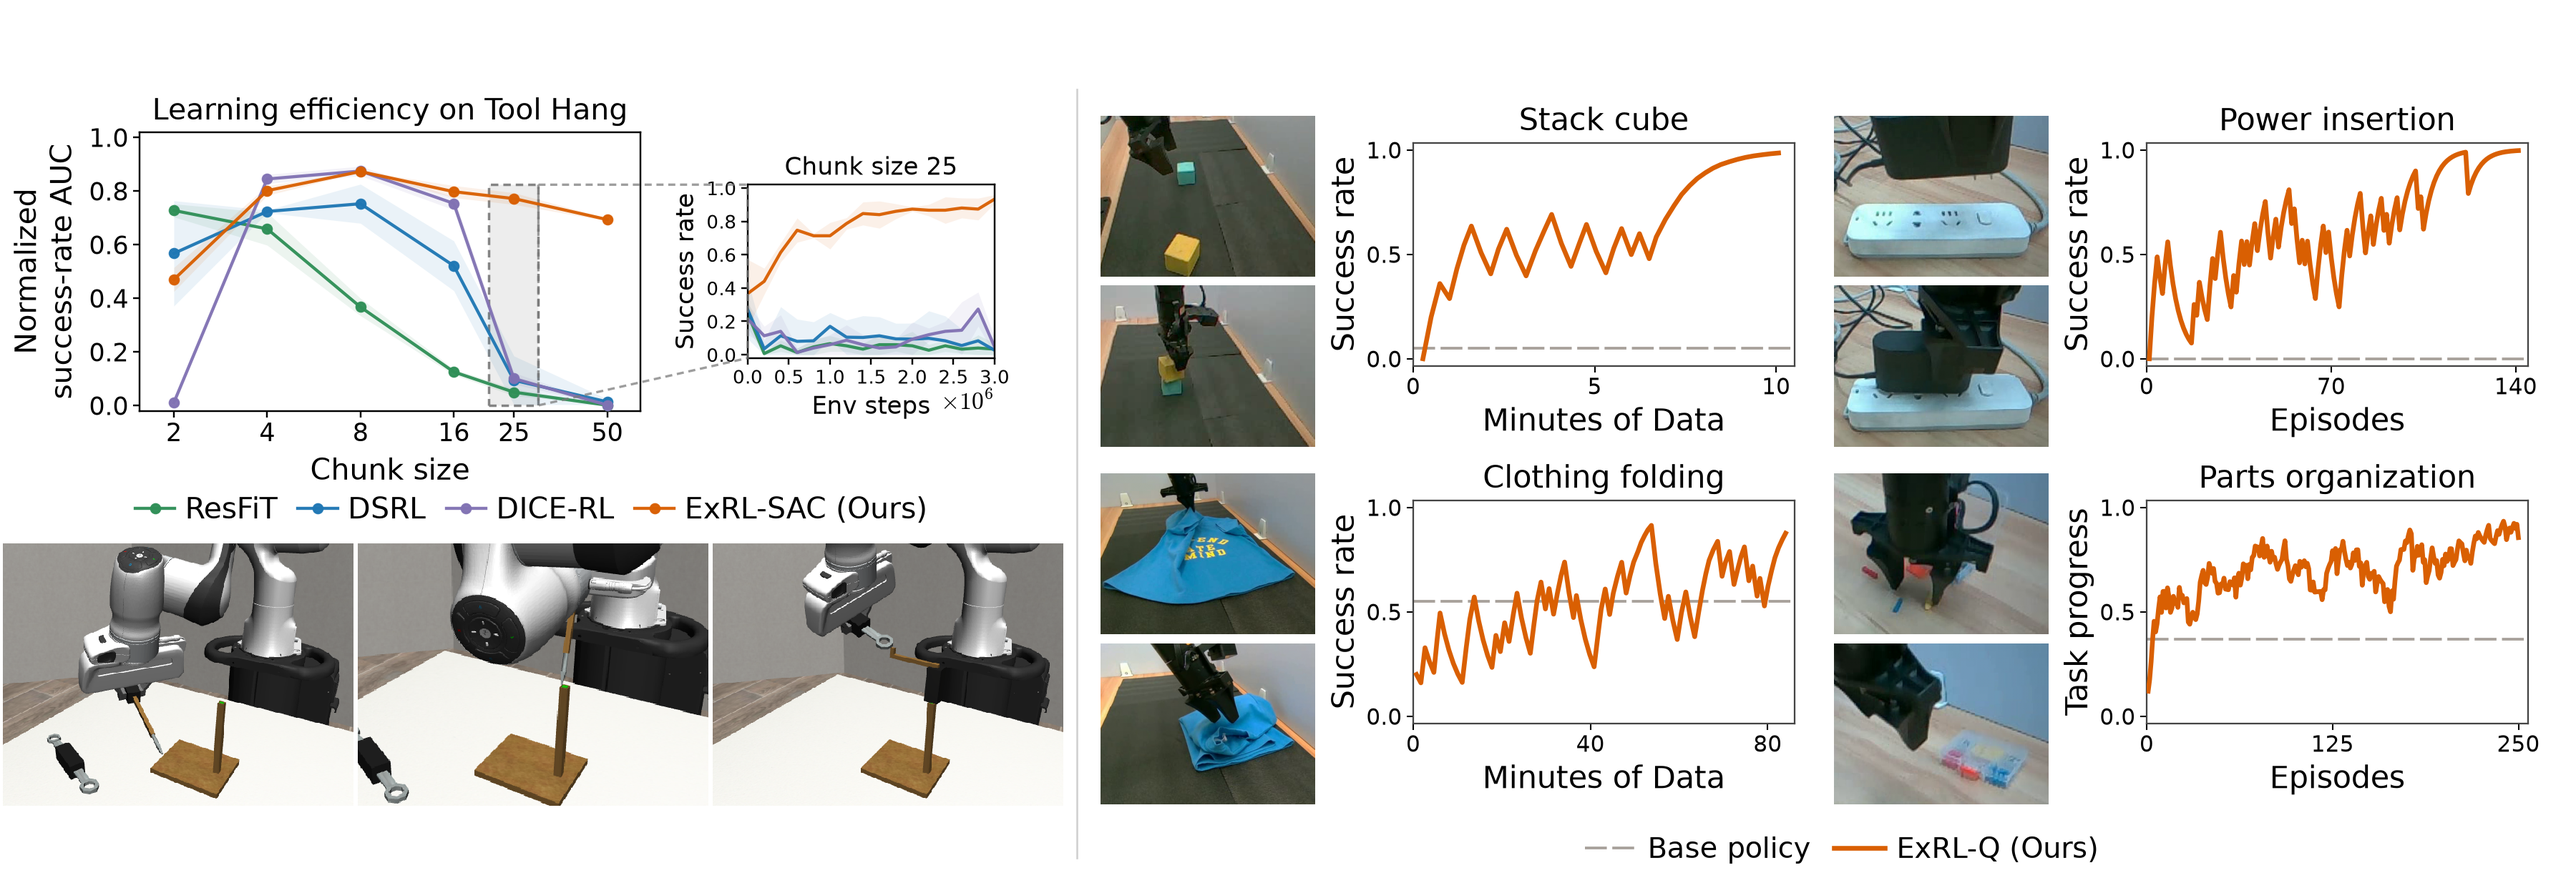
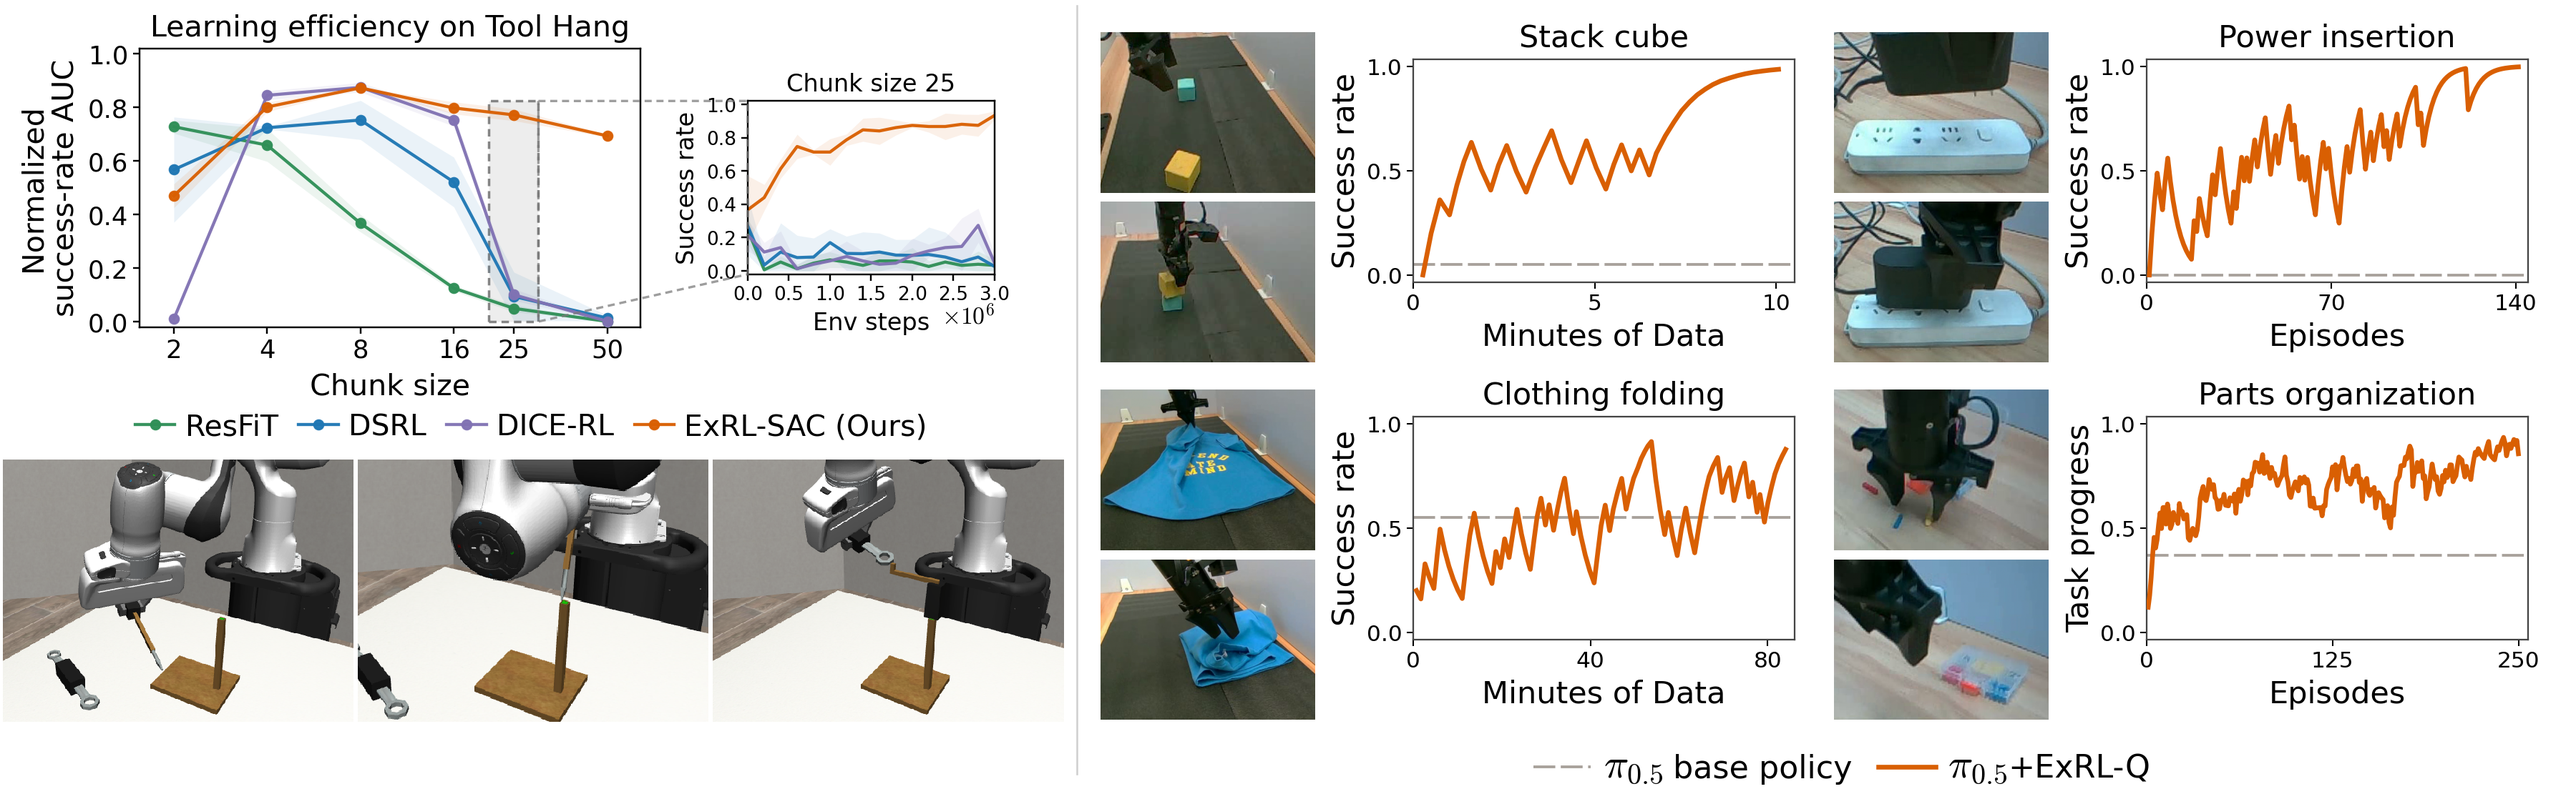
Center project links and refresh the paper teaser

diff --git a/README.md b/README.md
@@ -2,7 +2,9 @@
 
 # ExRL: Sample-Efficient Online Adaptation of Long-Chunk Policies via Execution Length Control
 
-### [Website](https://exrl-project.github.io) &nbsp;&nbsp; [Paper](https://exrl-project.github.io/paper.pdf)
+<h2 align="center">
+  [<a href="https://exrl-project.github.io">Website</a>] &nbsp;&nbsp; [<a href="https://exrl-project.github.io/paper.pdf">Paper</a>]
+</h2>
 
 </div>
 
